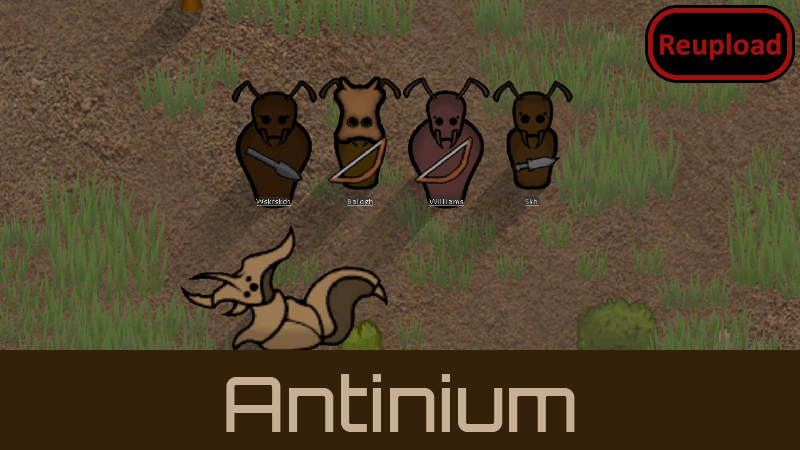
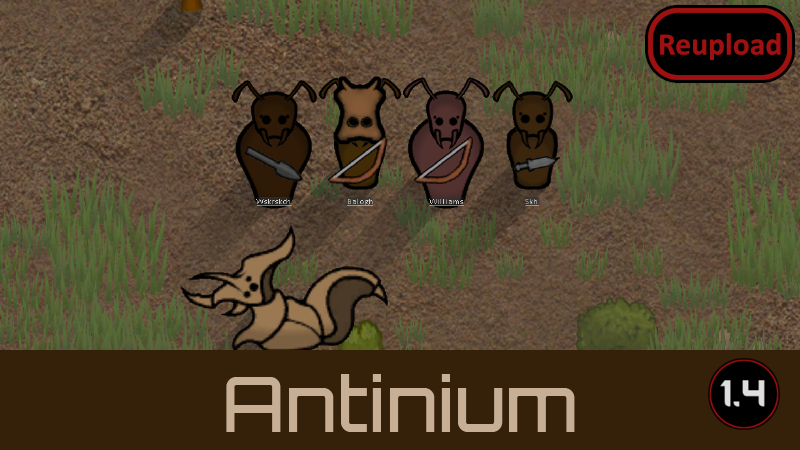
Last update, added end-of-life message

Changed region(s): [[0.875, 0.7778, 1.0, 0.9644]]

diff --git a/README.md b/README.md
@@ -11,7 +11,7 @@ https://steamcommunity.com/sharedfiles/filedetails/?id=1892455303
 
 **Was never really finished it seems. May cause issues in your game so be careful with how you choose to use it**
 
-![Image](https://i.imgur.com/pufA0kM.png)
+![Image](https://i.imgur.com/KFjAmff.png)
 
 	
 ![Image](https://i.imgur.com/Z4GOv8H.png)
@@ -55,10 +55,13 @@ Everyone in the RimWorld modding discord and the Human Alien Races discord for l
 
 -  See if the the error persists if you just have this mod and its requirements active.
 -  If not, try adding your other mods until it happens again.
--  Post your error-log using https://steamcommunity.com/workshop/filedetails/?id=818773962]HugsLib and command Ctrl+F12
+-  Post your error-log using https://steamcommunity.com/workshop/filedetails/?id=818773962]HugsLib or the standalone https://steamcommunity.com/sharedfiles/filedetails/?id=2873415404]Uploader and command Ctrl+F12
 -  For best support, please use the Discord-channel for error-reporting.
 -  Do not report errors by making a discussion-thread, I get no notification of that.
 -  If you have the solution for a problem, please post it to the GitHub repository.
+-  Use https://github.com/RimSort/RimSort/releases/latest]RimSort to sort your mods
 
 
-https://steamcommunity.com/sharedfiles/filedetails/changelog/2209261976]Last updated 2023-05-18
+
+https://steamcommunity.com/sharedfiles/filedetails/changelog/2209261976]![Image](https://img.shields.io/github/v/release/emipa606/Antinium?label=latest%20version&style=plastic&color=9f1111&labelColor=black)
+
